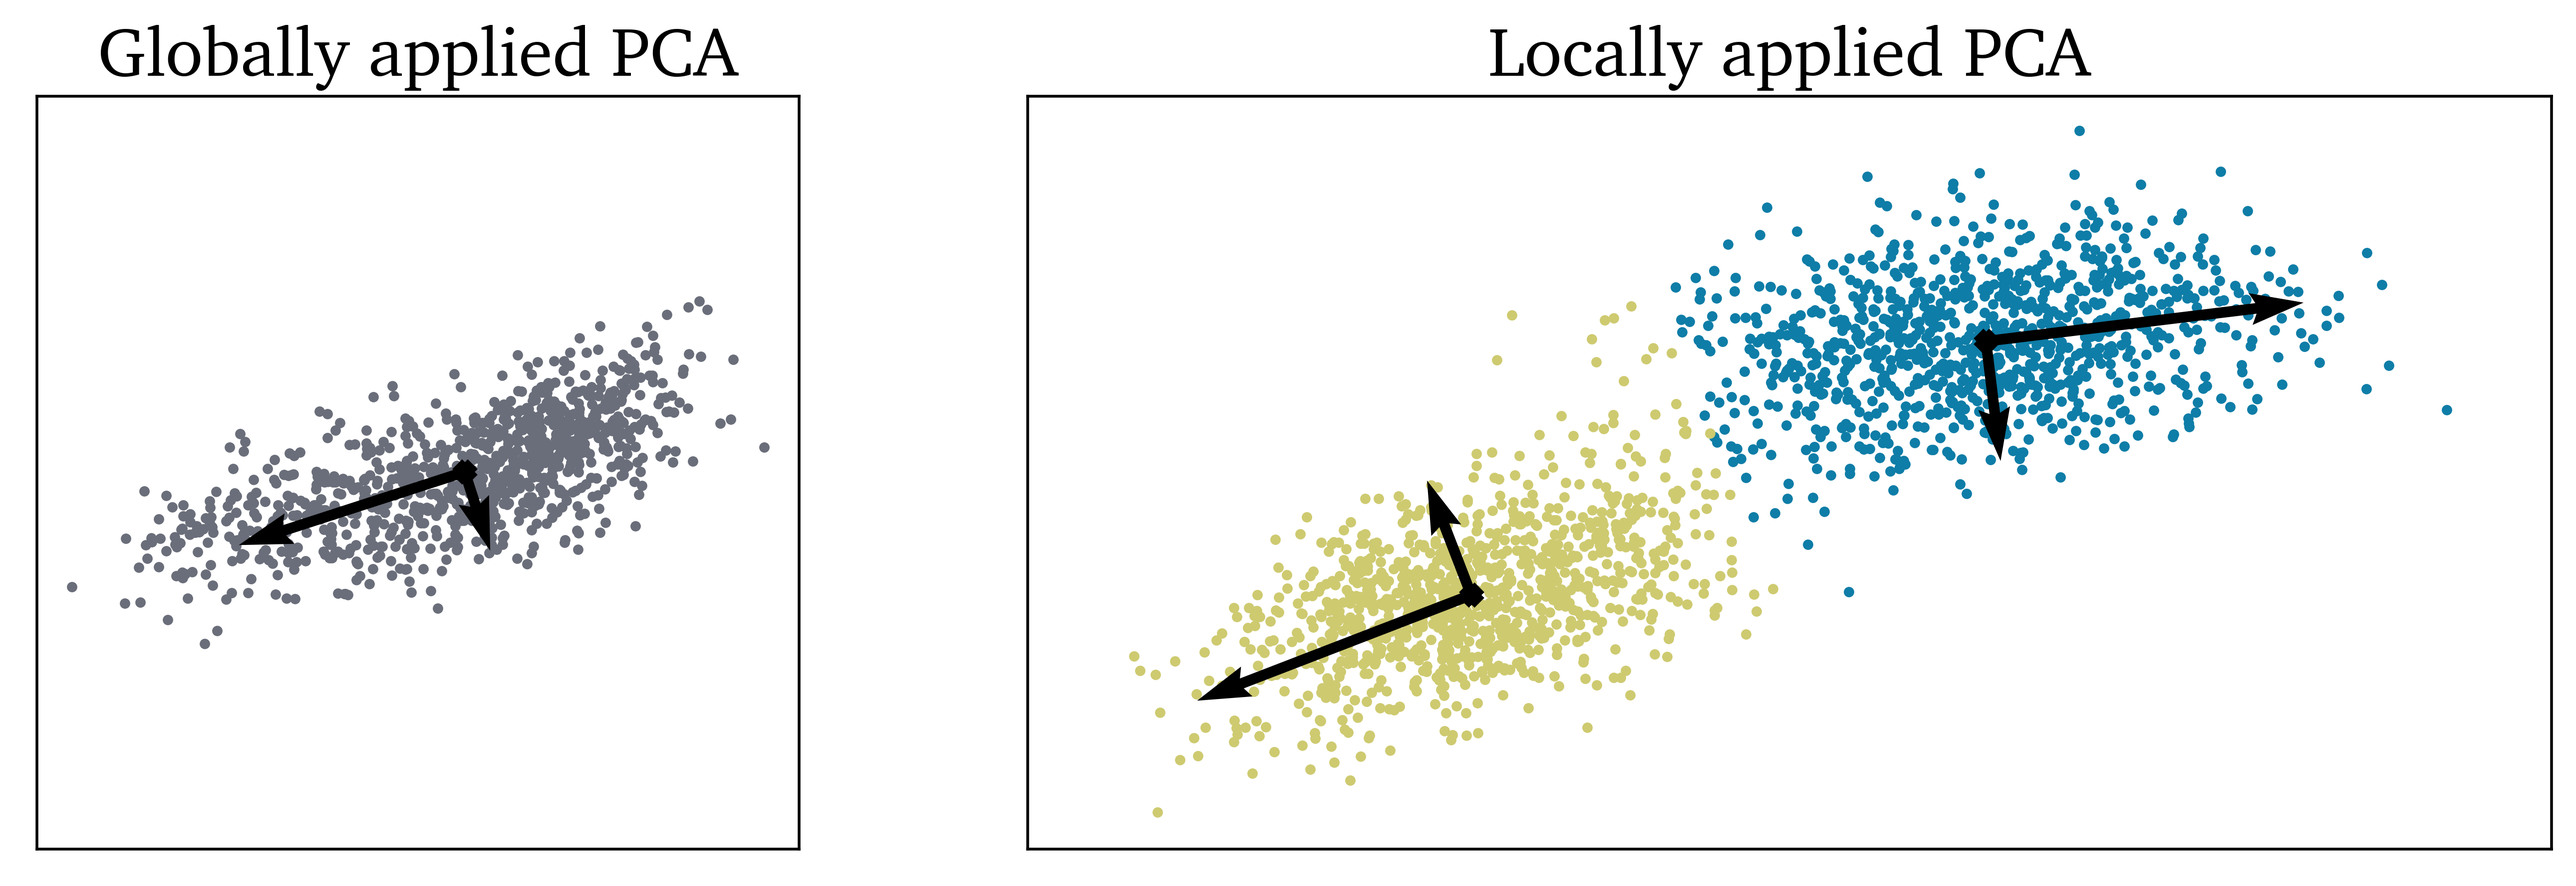
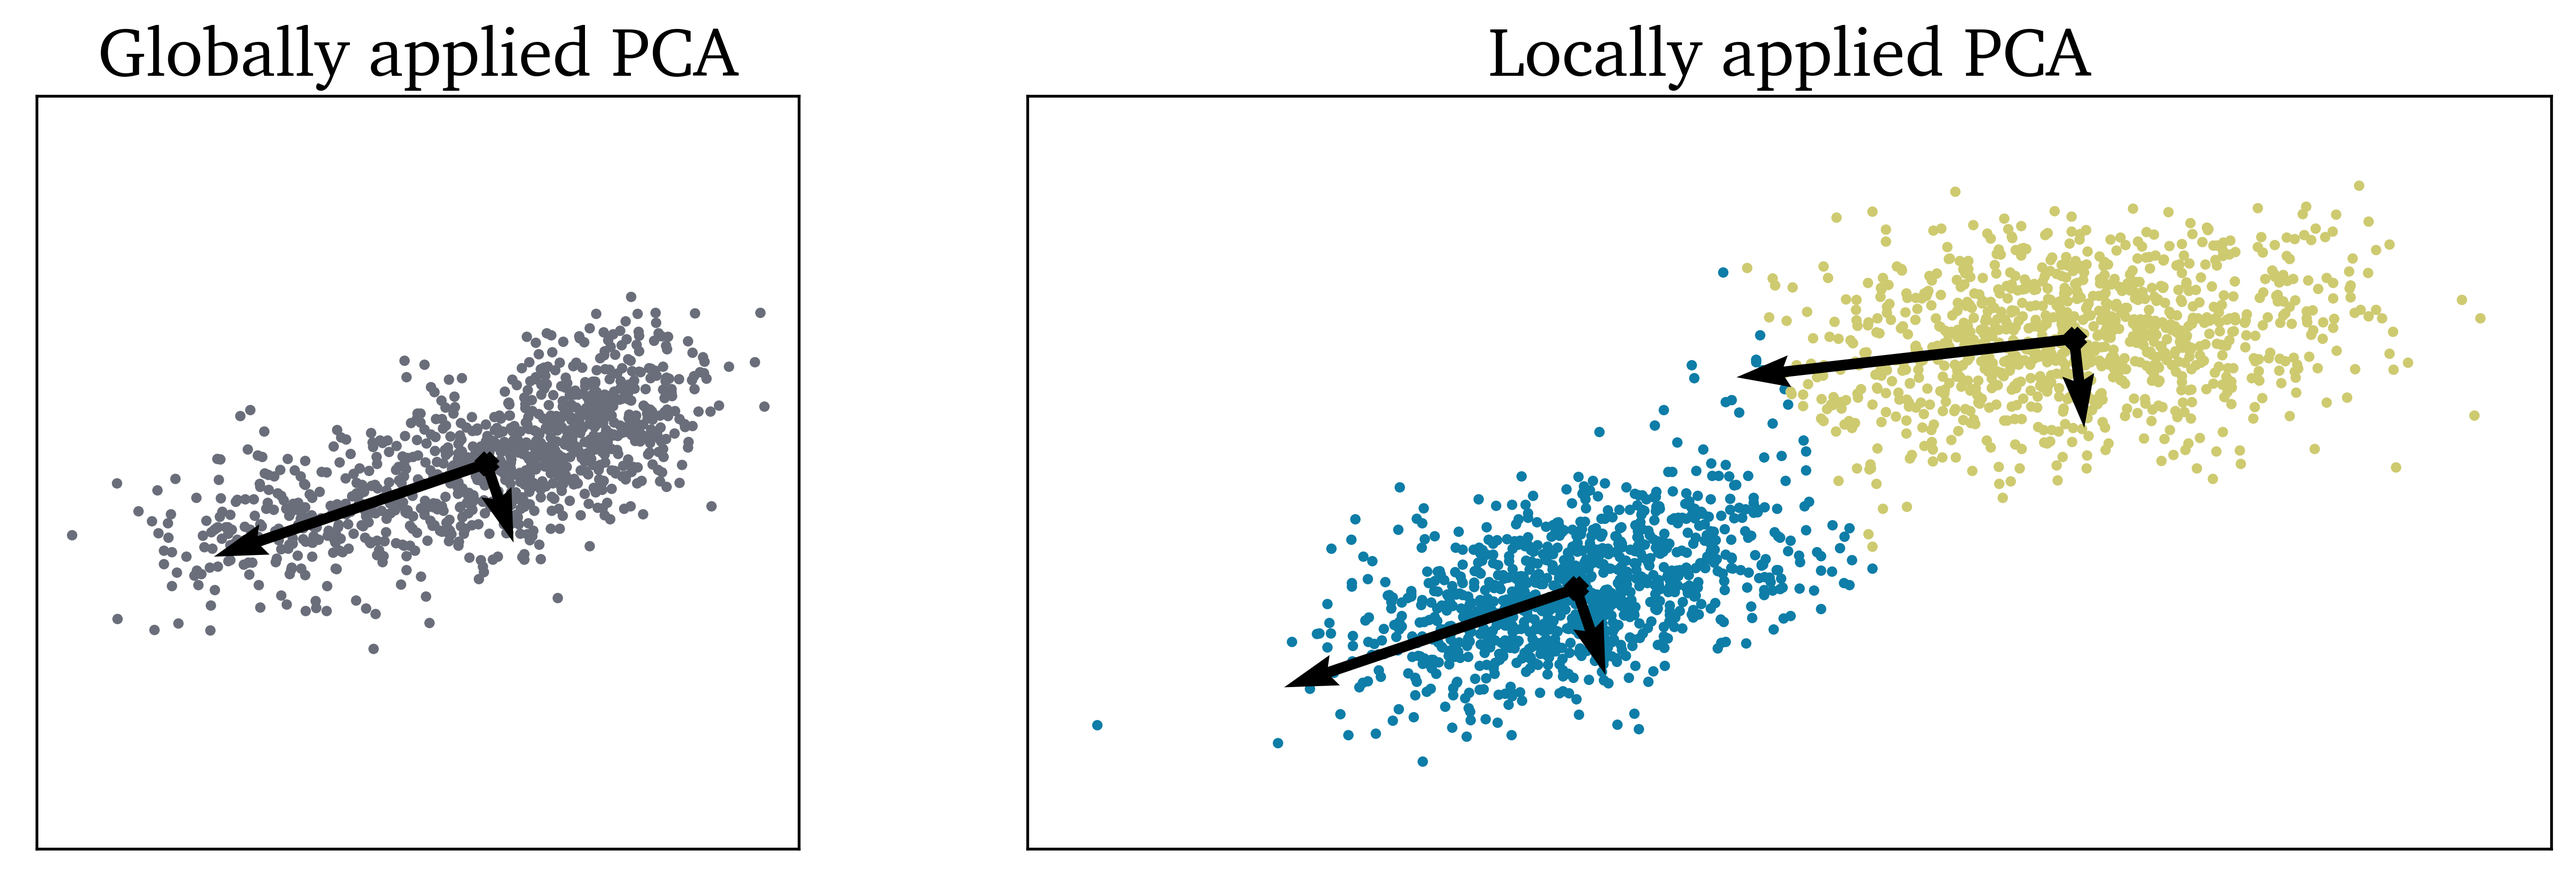
Demo for performing global and local PCA

Changed region(s): [[0.4367, 0.1857, 0.9359, 0.8666], [0.0312, 0.3405, 0.312, 0.7119], [0.6239, 0.8047, 0.6551, 0.8357]]

diff --git a/docs/tutorials/demo-pca.rst b/docs/tutorials/demo-pca.rst
@@ -17,6 +17,78 @@ Global versus local PCA
 
 In this tutorial we present how global and local PCA can be performed on a synthetic data set.
 
+For the purpose of this example we only need to import the ``PCA`` class:
+
+.. code:: python
+
+  from PCAfold.pca_impl import PCA
+
+We generate a synthetic data set on which the global PCA will be performed:
+
+.. code:: python
+
+  import numpy as np
+
+  mean_global = [0,1]
+  covariance_global = [[3.4, 1.1], [1.1, 2.1]]
+
+  x_noise, y_noise = np.random.multivariate_normal(mean_global, covariance_global, n_points).T
+  y_global = np.linspace(0,4,n_points)
+  x_global = -(y_global**2) + 7*y_global + 4
+  y_global = y_global + y_noise
+  x_global = x_global + x_noise
+
+  Dataset_global = np.hstack((x_global[:,np.newaxis], y_global[:,np.newaxis]))
+
+PCA can then be performed to obtain PC-scores, eigenvectors and eigenvalues:
+
+.. code:: python
+
+  # Perform PCA:
+  pca = PCA(Dataset_global, 'none', 2, useXTXeig=True)
+  PC_scores_global = pca.x2eta(Dataset_global, nocenter=False)
+  eigenvectors_global = pca.Q
+  eigenvalues_global = pca.L
+
+Similarly we generate another synthetic data set ``Dataset_local`` that is composed of two distinct clouds of points.
+We can use K-Means clustering algorithm to obtain cluster classifications and centroids for each cluster:
+
+.. code:: python
+
+  kmeans = KMeans(n_clusters=2, random_state=0).fit(Dataset_local)
+  idx = kmeans.labels_
+  centroids = kmeans.cluster_centers_
+
+Local PCA function can be easily constructed using the existing features of the ``PCA`` class:
+
+.. code:: python
+
+  def local_pca(X, idx):
+
+      n_k = len(np.unique(idx))
+
+      # Initialize the outputs:
+      eigenvectors = []
+      eigenvalues = []
+      PC_scores = []
+
+      for k in range(0, n_k):
+
+          # Extract local cluster:
+          X_k = X[idx==k]
+
+          # Perform PCA in a local cluster:
+          pca = PCA(X_k, 'none', 2, useXTXeig=True)
+          PC_scores = pca.x2eta(X_k, nocenter=False)
+          eigenvectors.append(pca.Q)
+          eigenvalues.append(pca.L)
+
+      return (eigenvectors, eigenvalues, PC_scores)
+
+Finally, we plot the identified global and local eigenvectors on top of the sythetic data sets.
+
+The visual result of performing PCA globally and locally can be seen below:
+
 .. image:: ../images/tutorial-pca-global-local-pca.png
   :width: 700
   :align: center
